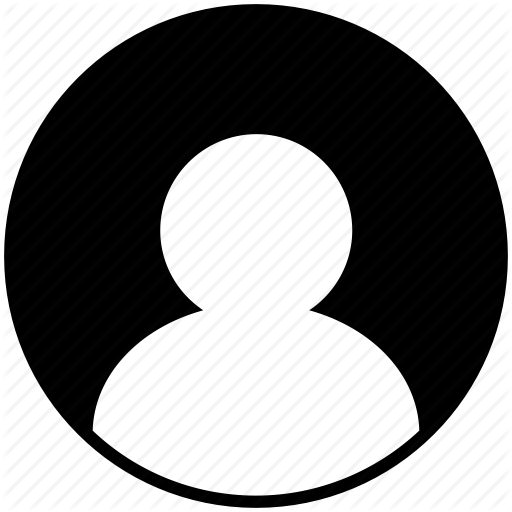
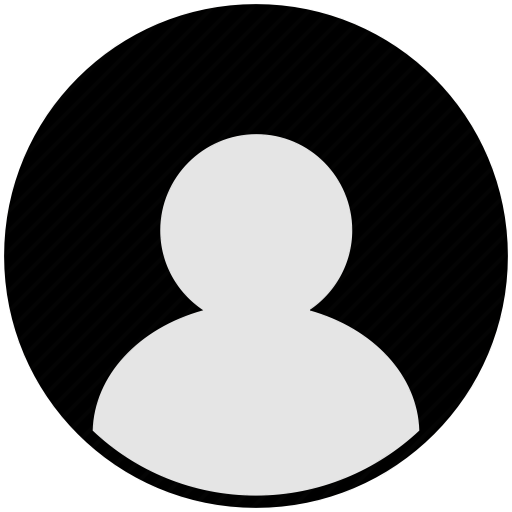
Styling, network graph button

Changed region(s): [[0.1875, 0.25, 0.8438, 0.9688]]

diff --git a/src/components/Header/index.js b/src/components/Header/index.js
@@ -1,5 +1,6 @@
 import React from "react";
 import avatarPlaceholder from "../../assets/images/avatar.png";
+import graphImage from "../../assets/images/graph.png";
 import appLogo from "../../assets/images/logo_top.png";
 import { Link } from "react-router-dom";
 
@@ -10,9 +11,14 @@ const Header = () => {
     <div className="header">
       <div />
       <Link to="/">
-          <img src={appLogo} alt="app logo" />
+        <img src={appLogo} alt="app logo" />
       </Link>
-        <img src={avatarPlaceholder} alt="avatar place holder" />
+      <div class="right-links">
+        <a href="/network">
+          <img src={graphImage} alt="network graph" />
+        </a>
+        <img src={avatarPlaceholder} alt="avatar placeholder" />
+      </div>
     </div>
   );
 };

diff --git a/src/App.js b/src/App.js
@@ -23,7 +23,7 @@ class App extends Component {
       "https://cors-anywhere.herokuapp.com/https://peaceful-shelf-99858.herokuapp.com/client-health/3c:97:0e:da:3c:65";
 
     const MOCK_DATA_URL =
-      "https://gist.githubusercontent.com/ashleynguci/5fd6c84358844f9ac50f713b039bad8f/raw/a1cde2ca3787f31cb960c591b27f70d6634f2145/mock.json";
+      "https://gist.githubusercontent.com/ashleynguci/5fd6c84358844f9ac50f713b039bad8f/raw/0e1b2b19f0c79488b22d5326078e2b5206f2c48b/mock.json";
     const urlsArray = [MOCK_DATA_URL, DNA_C_DATA];
     const promiseArray = urlsArray.map(url => this.fetchJSON(url));
     const dataArray = await Promise.all(promiseArray);

diff --git a/src/components/DeviceList/index.js b/src/components/DeviceList/index.js
@@ -5,10 +5,9 @@ import "./index.css";
 const DeviceList = ({ devices }) => {
   return (
     <React.Fragment>
-      <div className="title">Device List</div>
       <div className="list-title">
-        <div className="name">Device Name</div>
-        <div className="status">Status</div>
+        <div className="list-header name">Device Name</div>
+        <div className="list-header status">Status</div>
       </div>
       <div className="device-list">
         {devices.map((e, i) => (

diff --git a/src/components/Header/index.css b/src/components/Header/index.css
@@ -12,9 +12,14 @@
   color: white;
 }
 
-.header > img {
+.header .right-links img {
   width: 70px;
   height: 70px;
-  border-radius: 50%;
-  background: white;
+  margin-top: 5px;
+  margin-left: 15px;
+}
+
+.header > a img {
+  margin-left: 20%;
+  width: 60%;
 }

diff --git a/src/components/DeviceList/index.css b/src/components/DeviceList/index.css
@@ -7,6 +7,10 @@
   text-align: center;
 }
 
+.list-header {
+  font-weight: bold;
+}
+
 .list-title {
   display: grid;
   grid-template-columns: 4fr 3fr 1fr;

diff --git a/src/components/Device/index.css b/src/components/Device/index.css
@@ -25,6 +25,10 @@
   justify-content: center;
 }
 
+.device .detail {
+  font-size: 14px;
+}
+
 .red-color {
   color: #fb0d1c;
 }
